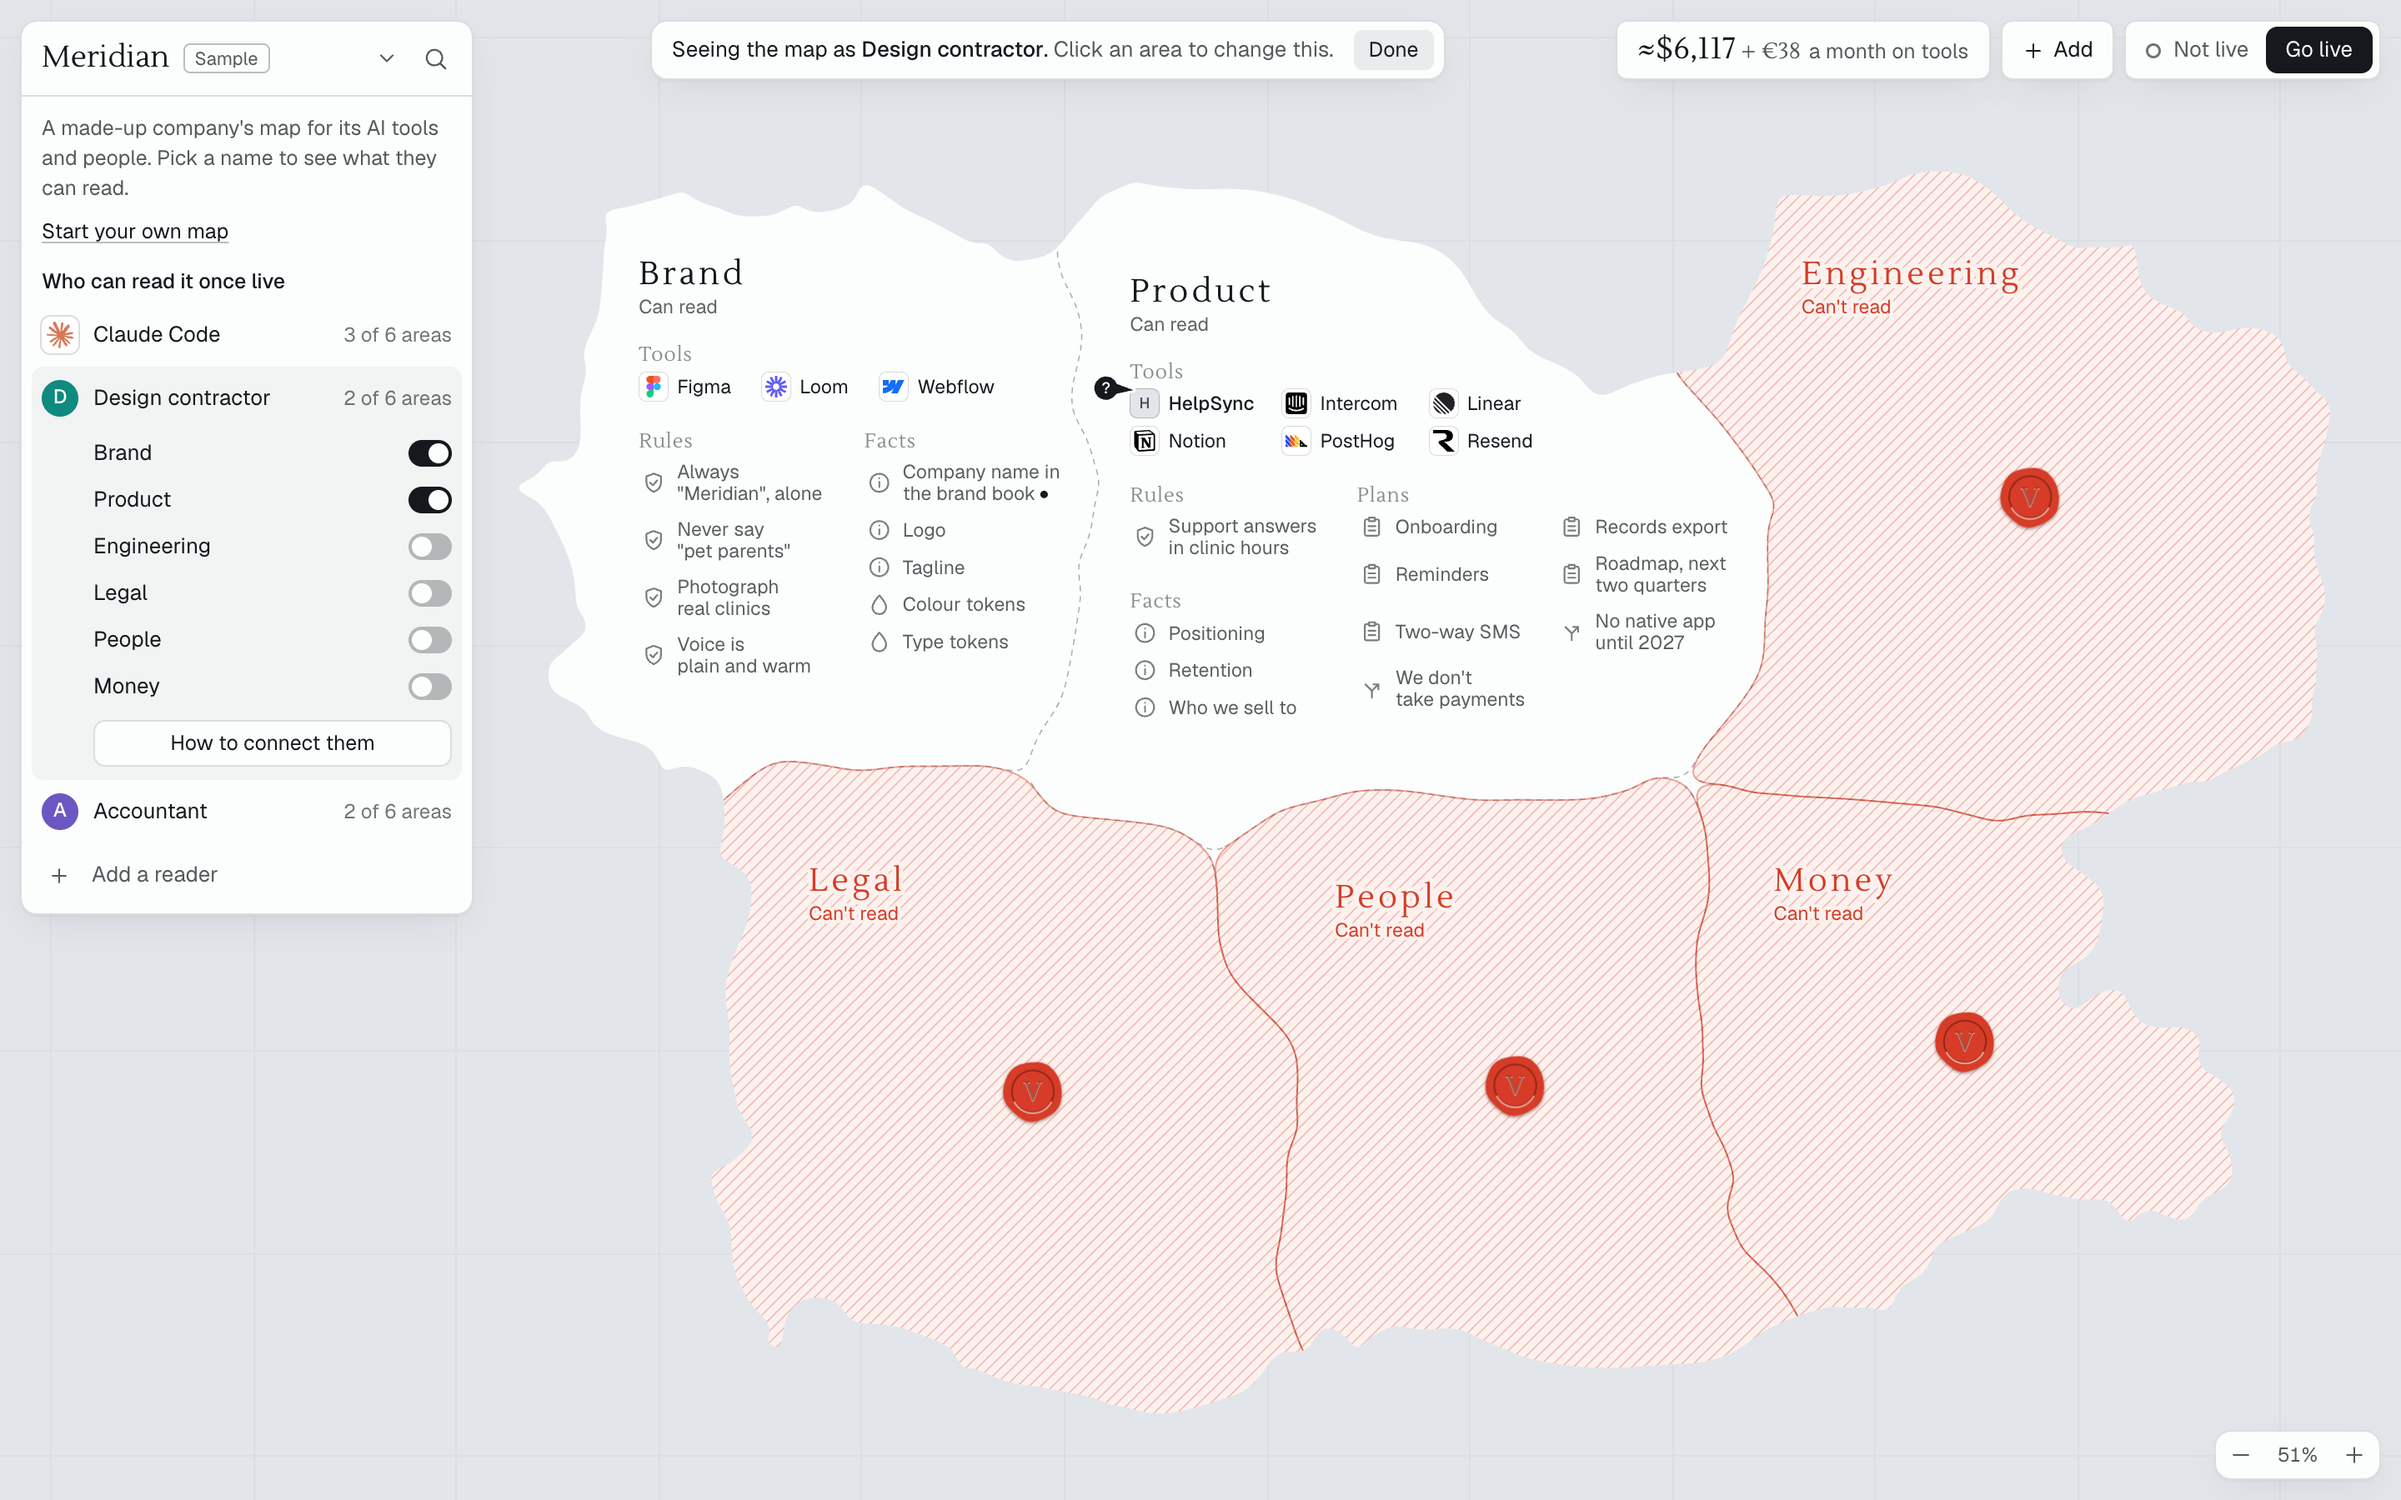
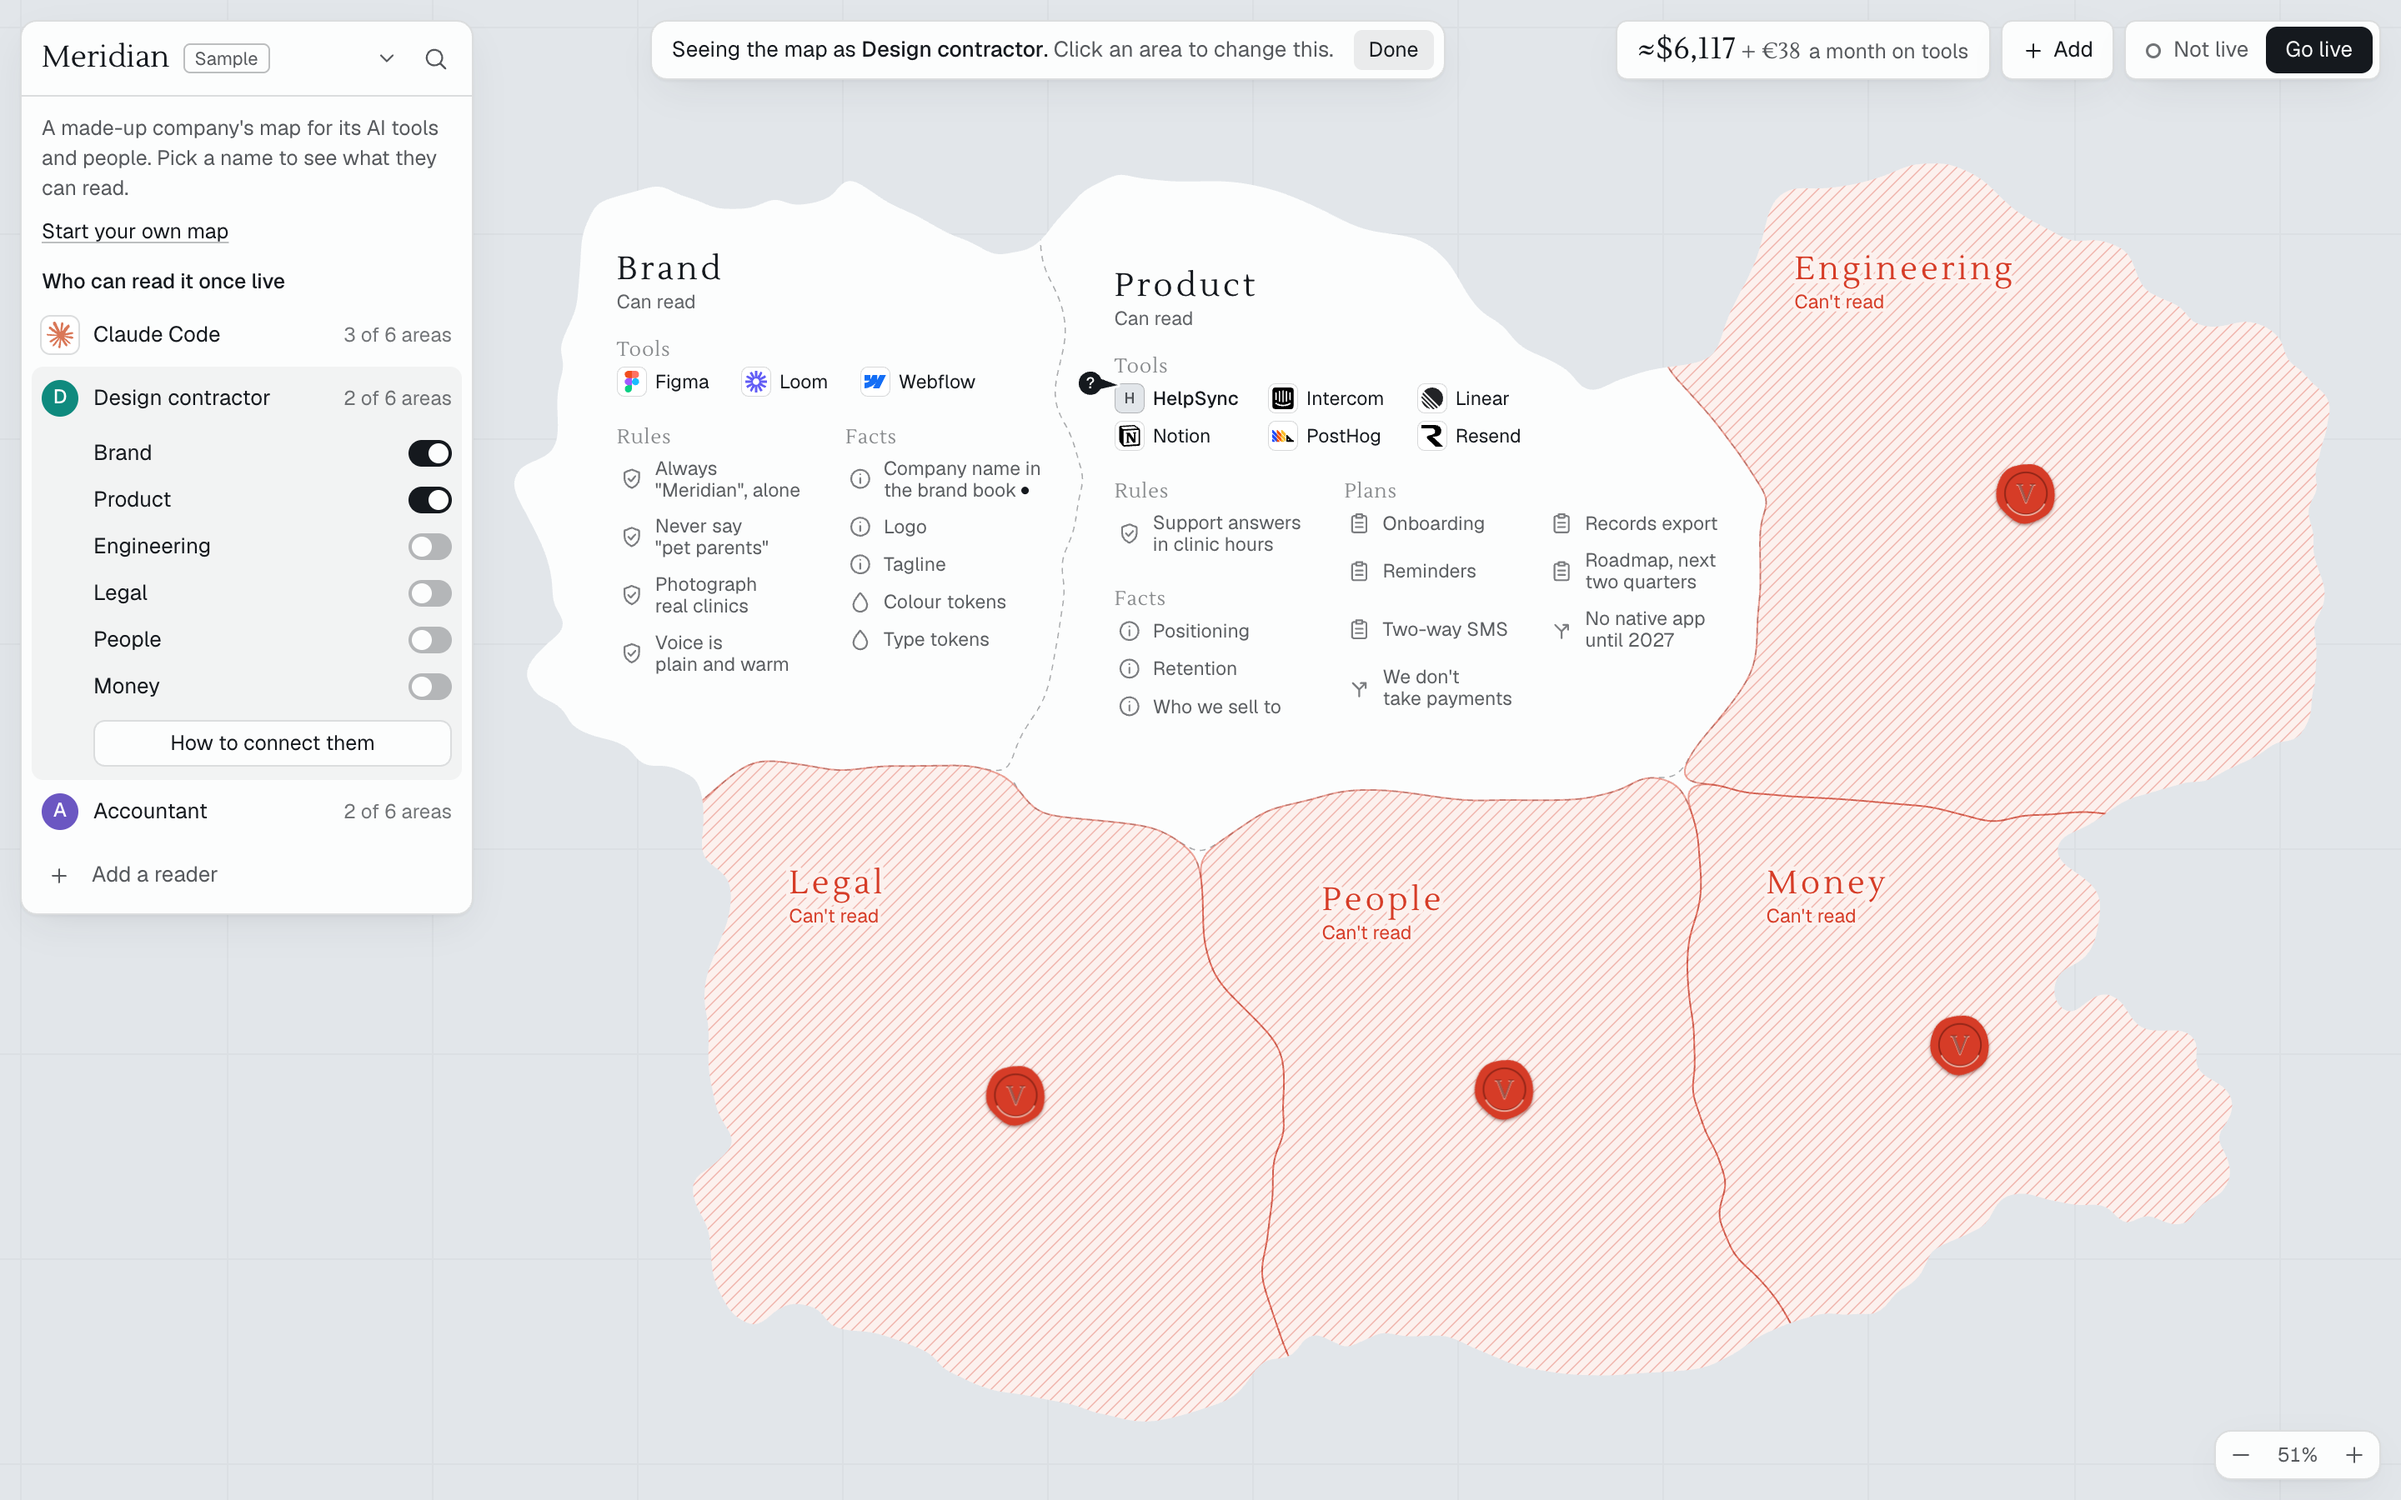
Take the hairs off the coast, keep fields on their own ground, and clear a reader's text of the folded card

diff --git a/src/studio/styles.css b/src/studio/styles.css
@@ -5,6 +5,8 @@
   --on-alert: #15191e;
   --live: #1f9d63;
   --paper: #e2e6ea;
+  /* A field or a key on a raised sheet. It was the sea's colour once, and it didn't deepen when the sea did. */
+  --field: #eef1f3;
   --raised: #fcfdfd;
   --ink: #15191e;
   --ink-rgb: 21, 25, 30;
@@ -35,6 +37,7 @@
 
 :root[data-theme='dark'] {
   --paper: #0e1319;
+  --field: #0e1319;
   --raised: #161c24;
   --ink: #e8e6df;
   --ink-rgb: 232, 230, 223;
@@ -293,7 +296,7 @@ a {
   width: 100%;
   height: 34px;
   padding: 0 10px;
-  background: var(--paper);
+  background: var(--field);
   border: 1px solid var(--hair);
   border-radius: var(--control-radius);
   outline: none;
@@ -1576,7 +1579,7 @@ button.piece-body {
   align-items: center;
   gap: 4px;
   padding: 4px 4px 4px 10px;
-  background: var(--paper);
+  background: var(--field);
   border: 1px solid var(--hair);
   border-radius: var(--control-radius);
 }
@@ -1626,7 +1629,7 @@ button.piece-body {
 .code-block {
   margin: 8px 0 0;
   padding: 10px;
-  background: var(--paper);
+  background: var(--field);
   border: 1px solid var(--hair);
   border-radius: 7px;
 }
@@ -2379,7 +2382,7 @@ body:has(.agent-view) .map-canvas {
 /* A monogram is plainly not a logo: paper, a hairline, and the first letter. */
 
 .svc-tile.svc-mono {
-  background: var(--paper);
+  background: var(--field);
   color: var(--soft);
   font-family: var(--sans);
   font-weight: 500;
@@ -2588,7 +2591,7 @@ body:has(.sheet) .empty > * {
   display: flex;
   align-items: center;
   height: 34px;
-  background: var(--paper);
+  background: var(--field);
   border: 1px solid var(--hair);
   border-radius: var(--control-radius);
   transition: border-color 120ms ease;
@@ -2645,7 +2648,7 @@ body:has(.sheet) .empty > * {
   display: block;
   padding: 12px;
   margin: 4px 0 10px;
-  background: var(--paper);
+  background: var(--field);
   border: 1px solid var(--hair);
   border-radius: 7px;
   font-family: var(--mono);
@@ -3195,6 +3198,12 @@ body:has(.empty-foot) .toasts {
 }
 body:has(.left.is-folded) .agent-view {
   left: var(--gutter);
+}
+/* Clear of the folded heading, which stands a little lower than the top row's controls. */
+@media (min-width: 721px) {
+  body:has(.left.is-folded) .agent-view {
+    top: 66px;
+  }
 }
 
 @media (max-width: 1100px) {

diff --git a/src/studio/map/layout.ts b/src/studio/map/layout.ts
@@ -719,6 +719,8 @@ const LAND = {
   closing: world(90),
   /** Water narrower than twice this is land: a firth ends in a head, not a hairline. */
   narrowest: 20,
+  /** Land thinner than twice this, with nothing on it, is sea: a shore has no hairs. */
+  thinnest: 24,
   /** The shortest coast worth drawing. Anything less is a speck that reads as a stray mark, and nothing on the land is ever this small. */
   shortest: 340,
   /** The least margin around what's on the land, whatever else happens. */
@@ -815,6 +817,7 @@ function coastField(rects: Rect[], minX: number, minY: number, n: number, m: num
   }
   // In this order, because closing a narrow mouth can leave what's behind it as a lake.
   closeNarrows(field, n, m, Math.max(1, Math.round((t.narrowest * far) / cell)), cell)
+  dropSpits(field, near, n, m, Math.max(1, Math.round((t.thinnest * far) / cell)), cell)
   fillLakes(field, n, m)
   return field
 }
@@ -832,6 +835,22 @@ function closeNarrows(field: Float32Array, n: number, m: number, radius: number,
   chamfer(fromCore, n, m)
   for (let k = 0; k < n * m; k++) {
     if (field[k] <= 0 && fromCore[k] > radius) field[k] = cell * 0.5
+  }
+}
+
+/**
+ * Land too thin to read as land goes back to the sea, so a shore has no hairs on it. The same opening as above, of the land this time.
+ * Never within the hard margin of what's on the land, so everything still stands on land by construction.
+ */
+function dropSpits(field: Float32Array, near: Float32Array, n: number, m: number, radius: number, cell: number) {
+  const fromSea = new Float32Array(n * m)
+  for (let k = 0; k < n * m; k++) fromSea[k] = field[k] > 0 ? 1e6 : 0
+  chamfer(fromSea, n, m)
+  const fromCore = new Float32Array(n * m)
+  for (let k = 0; k < n * m; k++) fromCore[k] = fromSea[k] > radius ? 0 : 1e6
+  chamfer(fromCore, n, m)
+  for (let k = 0; k < n * m; k++) {
+    if (field[k] > 0 && fromCore[k] > radius && near[k] * cell > LAND.hard) field[k] = -cell * 0.5
   }
 }
 
